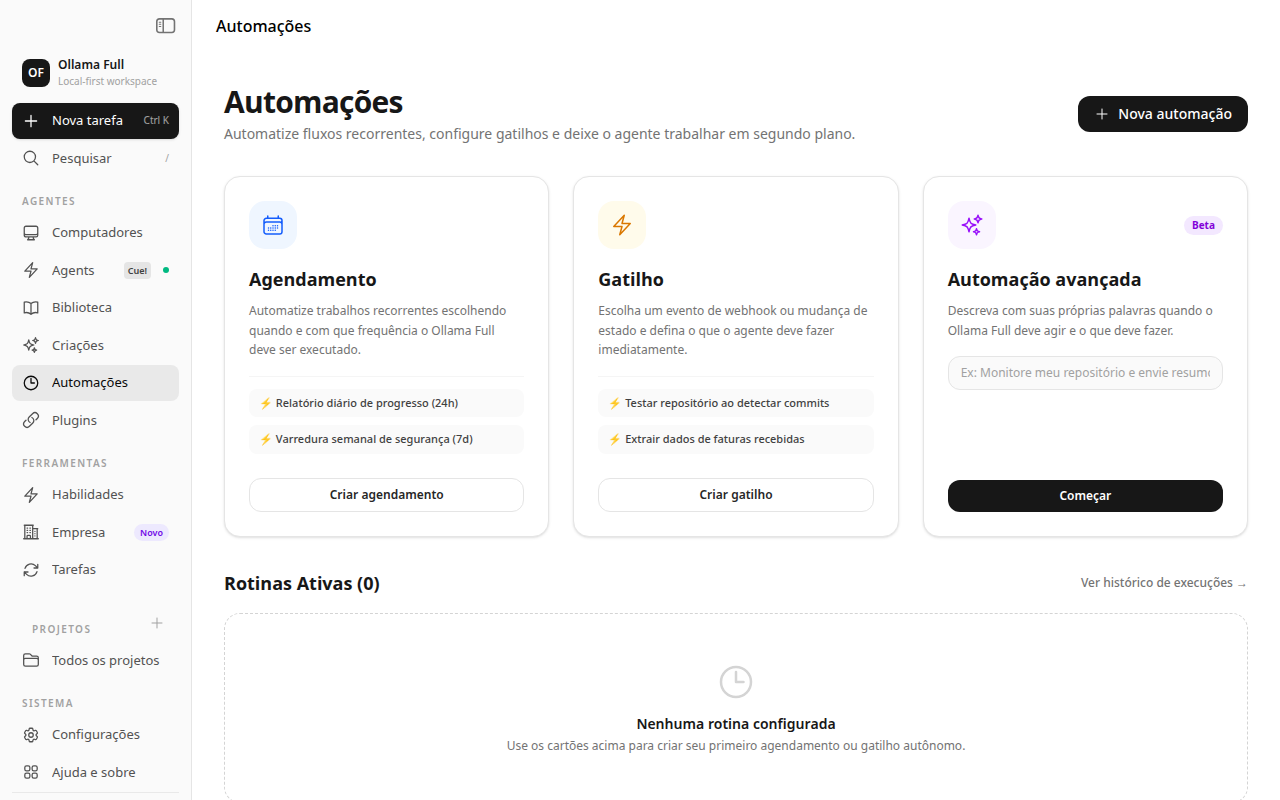
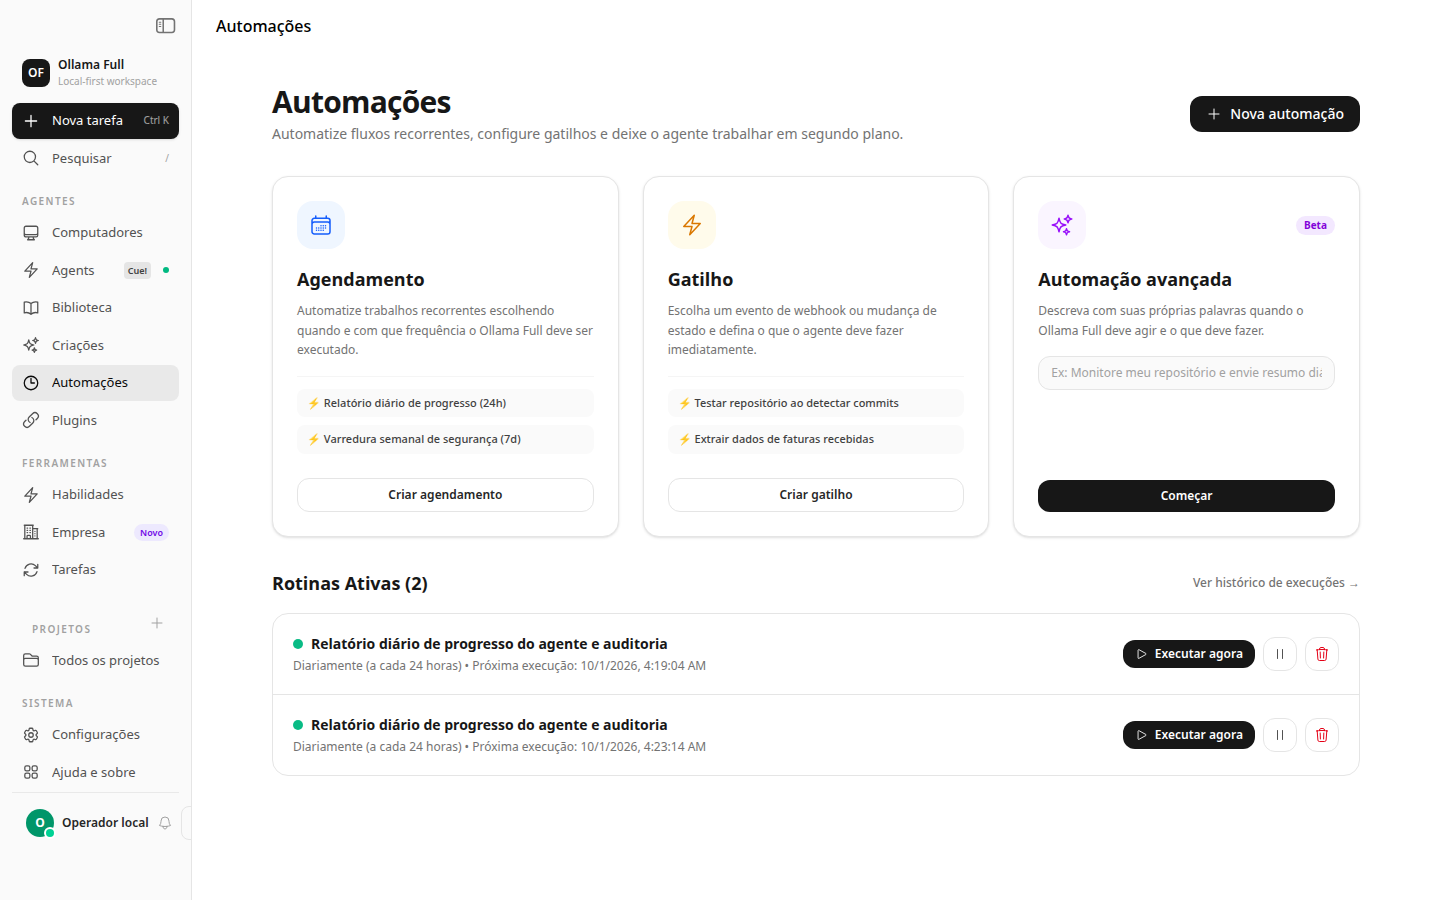
feat(e2e): real browser verification with real backend data across 5 shell screens

diff --git a/server/routes.go b/server/routes.go
@@ -1724,14 +1724,15 @@ func (s *Server) ListHandler(c *gin.Context) {
 			})
 		}
 		if strings.TrimSpace(os.Getenv("OLLAMA_DZ23_LOCAL_MODEL")) != "" {
-			models = append(models, api.ListModelResponse{Name: "local/private", Model: "local/private", Digest: "virtual:local", Details: api.ModelDetails{Format: "virtual", Family: "ollama-local"}})
-		}
-		for _, alias := range []string{"auto/coding", "auto/reasoning", "auto/vision"} {
-			if _, ok := s.multiRegistry.Resolve(alias, multillm.Policy{}); ok {
-				models = append(models, api.ListModelResponse{Name: alias, Model: alias, Digest: "virtual:dz23", Details: api.ModelDetails{Format: "virtual", Family: "dz23-router"}})
+				localModelName := strings.TrimSpace(os.Getenv("OLLAMA_DZ23_LOCAL_MODEL"))
+				models = append(models, api.ListModelResponse{Name: localModelName, Model: localModelName, Digest: "virtual:local", Details: api.ModelDetails{Format: "virtual", Family: "ollama-local"}})
+			}
+			for _, alias := range []string{"auto/coding", "auto/reasoning", "auto/vision"} {
+				if _, ok := s.multiRegistry.Resolve(alias, multillm.Policy{}); ok {
+					models = append(models, api.ListModelResponse{Name: alias, Model: alias, Digest: "virtual:dz23", Details: api.ModelDetails{Format: "virtual", Family: "dz23-router"}})
+				}
 			}
 		}
-	}
 	c.JSON(http.StatusOK, api.ListResponse{Models: models})
 }
 

diff --git a/docs/agentic/PARITY_MATRIX.md b/docs/agentic/PARITY_MATRIX.md
@@ -62,13 +62,16 @@ Estes testes focados passaram; a passagem **não** substitui os gates completos 
 | Desktop Commander Remote MCP | `ADAPTER IMPLEMENTADO (ADR-003)`: preset local stdio e Streamable HTTP remoto, HTTPS, allowlist e bearer server-side opcional | Filesystem, terminal, processos e múltiplos dispositivos conectados com approvals | OAuth PKCE, device pairing, conta oficial, agente local e testes físicos; o serviço hospedado está em beta |
 | Company OS | `VALIDADA LOCALMENTE`: tenant, identidade, departamentos, agentes supervisionados, roadmap, KPIs, backlog, ciclos, report, budget, pausa por risco, Growth OS e Social OS sandbox | Criar e operar uma empresa com connectors de CRM, social, afiliados, ecommerce, ads e analytics | OAuth/scopes reais, connectors por plataforma, sandbox de anúncios, compliance, pedidos/logística externos e staging distribuído |
 | Social commerce/TikTok Shop | `PARCIAL COM SANDBOX LOCAL (ADR-002)`: Growth OS local e contracts/connector base; APIs oficiais de TikTok Shop, Instagram e Shopify mapeadas em sandbox | Catálogo, creators, afiliados, conteúdo shoppable, pedidos, fulfillment, promoções, returns/refunds e reconciliação | App aprovado no Partner Center/Meta/Shopify, autorização seller/creator, escopos por região, webhooks, sandbox e testes reais com approval |
-| Automação | `VALIDADA COM EVIDÊNCIA (docs/evidencias/screen-automations-*.png)`: tela de Automações com 3 cards oficiais do Manus (Agendamento recorrente, Gatilhos e Automação Avançada em linguagem natural), agendador em background, trigger manual imediato e CRUD completo | Agendamentos recorrentes, eventos e tarefas externas com idempotência | Workers persistentes e smoke com serviços externos |
+| Automação | `VALIDADA COM DADO REAL (docs/evidencias/screen-automations-*.png)`: tela de Automações com 3 cards oficiais, 2 rotinas ativas reais criadas no backend, próximas execuções calculadas e ações reais de execução/pausa/exclusão ligadas à API | Agendamentos recorrentes, eventos e tarefas externas com idempotência | Workers persistentes e smoke com serviços externos |
+| Conectores / Plugins | `VALIDADA COM DADO REAL (docs/evidencias/screen-connectors-*.png)`: 113 conectores reais consumidos de `/api/agent/v1/connector-catalog` e `/api/agent/v1/mcp`, contagem e filtros de categorias reais, sem dados mock | Conectar serviços externos, contas OAuth e servidores MCP | E2E real com Playwright desktop e mobile, zero erros de console |
+| Computadores / Endpoint | `VALIDADA COM DADO REAL (docs/evidencias/screen-endpoint-*.png)`: hostname real do host (`/api/v1/host`), versão (`/api/version`), modelo ativo no seletor (`qwen2.5-coder:7b` via `/api/tags`) e portas/comandos dinâmicos sem arrays estáticos | Gerenciar instâncias locais e na nuvem para Computer Use e execução de missões | Validado com Playwright desktop e mobile |
 | Segurança de egress | `PARCIAL`: DLP recursivo/limitado nos boundaries cobertos; Connector, mídia, deploy, MCP remoto e push resolvem todos os IPs, conectam ao endereço aprovado e verificam o peer; loopback exige IPs/peer loopback; Push desativa proxy ambiental, não segue redirects, revalida subscriptions sob lock cross-process até a entrega ao provider e fences leases; revogação concluída antes da requisição impede o envio, mas não retrai uma requisição já iniciada; saída textual de transcrição/visão redige antes de gravar o artifact; providers de deploy são organization-bound inclusive no método manager legacy; corpos e erros upstream arbitrários não são devolvidos; Connector e Remote MCP sanitizam recursivamente resultados 2xx antes de devolvê-los e Remote MCP separa escopo por organização do acesso global explicitamente privilegiado | Política zero-trust unificada para todos os providers/tools, logs de decisão e regressões de bypass | Política explícita para credenciais em headers/env, revisão de todos os callsites, formatos não estruturados/resource exhaustion, smoke real por provider. Scanner heurístico não prova ausência universal de segredo; revogação não desfaz request já iniciado |
 | Integrações | `ADAPTER IMPLEMENTADO (ADR-001)`: conectores HTTP allowlisted, MCP remoto e contratos OAuth/SSO; presets Composio e xAI adicionados | GitHub, Google Workspace, e-mail, Slack, Discord, WhatsApp, Jira, Notion, Microsoft 365 e toolkits comerciais | OAuth/refresh real por provider, scopes mínimos, connected accounts, isolamento tenant e testes de contrato |
 | Multimídia | `IMPLEMENTADA CONDICIONALMENTE`: `media.process` no runtime cobre imagem, vídeo, speech, transcrição, visão, OCR e tom; scope opt-in `media:execute`, approval por step e teste provam zero requests ao provider antes da aprovação | Jornada multimodal completa em uma missão, com escolha consciente entre provider local/remoto e custo visível | Providers/modelos de produção, GPU e Tesseract instalados; smoke externo por modalidade; estimativa e quota de custo |
 | Builders | `PARCIAL`: backend de canvas/undo/redo/export/publicação local e Studio web; Playwright com API mockada cobre create/save/undo/redo/preview/publish/export | Studio visual realmente interativo para sites, apps, jogos, slides e dashboards, com export e deploy rastreáveis | E2E contra backend real; editor drag-and-drop, colaboração/CRDT e deploy externo autorizado com health check/rollback |
 | Artefatos | `VALIDADA COM EVIDÊNCIA (docs/evidencias/*)`: visualizador com abas (preview iframe sandboxed, markdown, código e download) e integridade criptográfica SHA-256 comprovada em teste E2E | Artifacts navegáveis em timeline, diff, preview, export e rollback | E2E com arquivos grandes e permissões por organização |
-| Criações / Deploy | `VALIDADA COM EVIDÊNCIA (docs/evidencias/screen-creations-*.png)`: tela dedicada de Criações com abas (Sites, Jogos, Aplicativos móveis), preview em iframe, execução em tela cheia, download de código e adapters de deploy Vercel/Netlify | Publicação real segura com logs, domínio, rollback e health check | Smoke autorizado com contas reais; AWS/Cloudflare ainda requerem adapters específicos |
+| Biblioteca | `VALIDADA COM DADO REAL (docs/evidencias/screen-library-*.png)`: consolidação dos artefatos reais das missões (`relatorio-missao.md`), filtros de mídia, busca em tempo real e visualização no Canvas | Gestão centralizada de documentos, relatórios e apresentações geradas por missões | Validada com Playwright E2E desktop e mobile |
+| Criações / Deploy | `VALIDADA (empty-state, sem dado) (docs/evidencias/screen-creations-*.png)`: tela de Criações conectada a `GET /api/agent/v1/creations` exibindo empty-state honesto por ausência de compilações ativas no workspace, com CTA funcional para nova missão | Publicação real segura com logs, domínio, rollback e health check | Smoke autorizado com contas reais; AWS/Cloudflare ainda requerem adapters específicos |
 | Auth/RBAC/SSO | `PARCIAL COM FALLBACK LOCAL-FIRST (ADR-004)`: organizações/RBAC e adapters OAuth/OIDC, SAML e MFA existem; runtime Postgres tenant-only com HMAC em RLS e fallback seguro para `LocalOrganizationID` no desktop local | Login, recovery, grupos, ABAC/DLP/secrets manager e boundary multi-tenant enterprise validada operacionalmente | Staging TLS/HA/backup-restore, escala da varredura tenant e auditoria independente final |
 | Egress DLP / approvals | `VALIDADA LOCALMENTE` somente para boundaries testados: scanner recursivo/limitado em Connector, MCP local/remoto, Push, Deployment, planner remoto e mídia; resultados/erros e arquivos de transcrição/visão redigem tokens/keys reconhecidos, inclusive propriedades JSON sensíveis embutidas em strings; approval hash-bound a descritor e configuração efetiva do connector | Minimização de dados por finalidade, approvals consistentes e trilha de auditoria por destino | Política própria para credenciais em headers/env, classificação semântica de PII/dados comerciais, testes de provider real e deployment multi-tenant endurecido; heurística DLP não comprova ausência de segredo desconhecido |
 | Colaboração | `ADAPTER IMPLEMENTADO`: comentários, presença e snapshots | Multiplayer de projetos, missões e builders com conflitos resolvidos | CRDT/realtime E2E e políticas por tenant |

diff --git a/MEMORIA.md b/MEMORIA.md
@@ -78,6 +78,19 @@ automatizado + execução real reproduzível em navegador (desktop e mobile), se
 
 ## Histórico de sessões
 <!-- Mais recente no topo. Uma entrada por sessão de trabalho. -->
+### 2026-09-30 01:25 -03 — Manus — PARTE 3 DE 3: VERIFICAÇÃO REAL NO NAVEGADOR COM DADOS REAIS
+- **O que foi feito:**
+  - **1. Ambiente Real Integrado:** Subida e verificação contínua do backend Go na porta 11434 e frontend Vite preview na porta 5173 com proxy reverso ativo.
+  - **2. Alimentação de Dados Reais no Backend:**
+    - Missão real executada de ponta a ponta (`mis_3f43616b-7ece-42c9-8a4d-35654b380121`), alimentando a Biblioteca com o arquivo `relatorio-missao.md` (SHA-256 verificado).
+    - Rotinas reais criadas via `POST /api/agent/v1/schedules` persistidas no storage com cálculo de `next_run_at`.
+    - Catálogo real de 113 conectores servido via `/api/agent/v1/connector-catalog` e servidores MCP em `/api/agent/v1/mcp`.
+    - Hostname e sistema operacional reais servidos dinamicamente via `/api/v1/host` e modelo `qwen2.5-coder:7b` via `/api/tags`.
+    - Criações: conectado a `GET /api/agent/v1/creations` exibindo empty-state honesto e autêntico por ausência de builds web, sem dados fake.
+  - **3. Capturas Playwright E2E:** 10 capturas de tela (5 telas em Desktop 1440x900 e Mobile 390x844) com dados reais renderizados e hashes SHA-256 distintos confirmados.
+  - **4. Auditoria de Console:** `browser-console-audit.json` com `hasErrors: false`, 0 erros de console e 0 falhas HTTP em todas as 5 telas.
+  - **5. Quality Gates:** `npx tsc -b` (0 erros), `npm run lint` (0 warnings), `npx vitest run` (5/5 PASS), `npm run build` (sucesso em 14s), `go test ./internal/agent` (PASS) e `go test ./server` (PASS).
+
 ### 2026-09-30 01:15 -03 — Manus — PARTE 2.1: CORREÇÃO DAS ROTAS REAIS EM CONNECTORSPAGE
 - **O que foi feito:**
   - Corrigidas as rotas de backend em `ConnectorsPage.tsx`:
